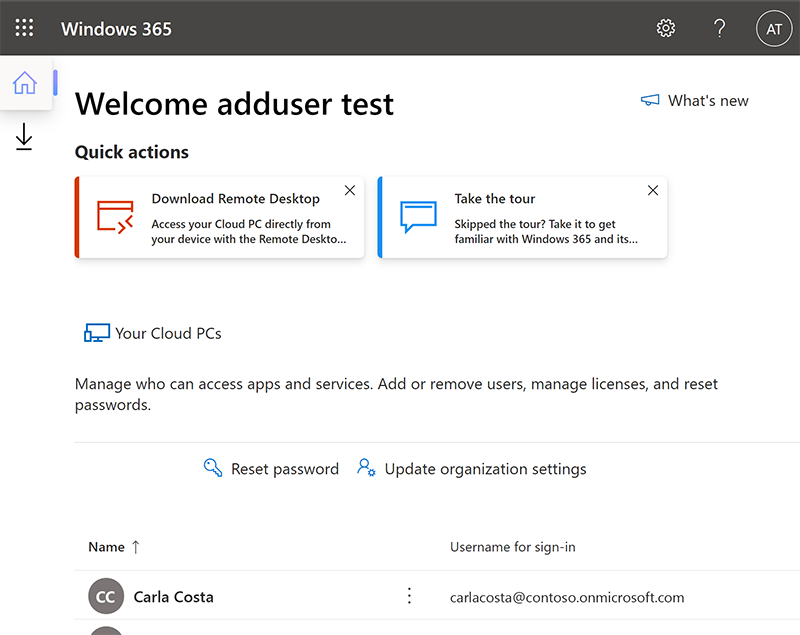
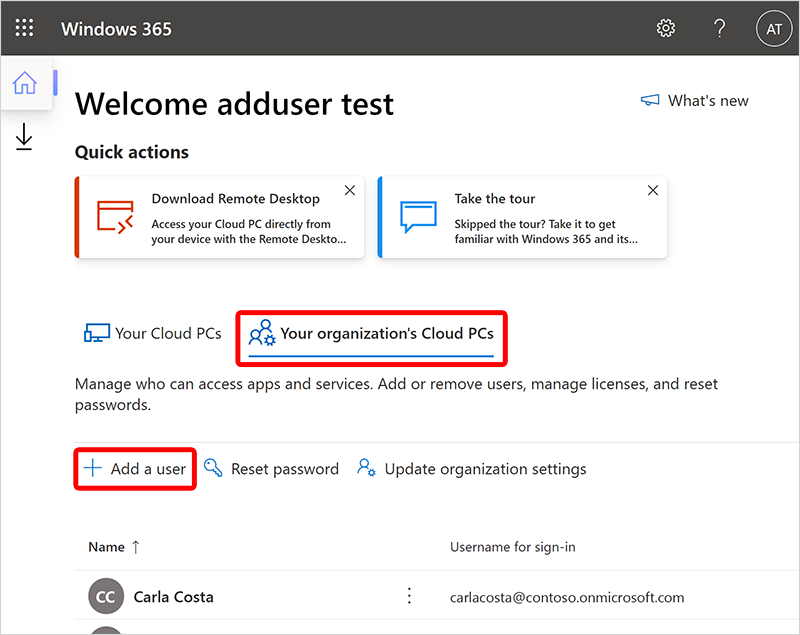
add more images

Changed region(s): [[0.2812, 0.4787, 0.6562, 0.5984], [0.0, 0.9874, 1.0, 1.0], [0.0938, 0.6882, 0.25, 0.778]]

diff --git a/Windows365/business/add-user-assign-licenses.md b/Windows365/business/add-user-assign-licenses.md
@@ -34,11 +34,12 @@ You can add a user and assign them licenses by following these steps:
 
 1. Sign in to [windows365.microsoft.com](https://windows365.microsoft.com) with an Azure Active Directory (Azure AD) Global Administrator account.
 2. Select **Your organization’s Cloud PCs** > **Add a user**.
-  ![Screenshot of Add user button](/media/add-user-assign-licences/add-user.png)
-3. Select **Edit products** to see all available licenses that can be assigned to the user.
-4. Select the licenses that you want to assign to the user.
-5. Under **User information**, enter a name and username, and select a domain name.
-6. If you want to specify a password, select **???** and then provide a password. If you don’t choose this option, a random password is automatically created for the user.
-7. Select **???** if you don’t want to require the user to change their password when they first sign into the new Cloud PC. If you don’t choose this option, the user will be prompted to change the password when the first sign into the Cloud PC.
-8. Select **???** to automatically send the sign in info to the user in an email.
+  ![Screenshot of Add user](/media/add-user-assign-licences/add-user.png)
+3. Choose **Select products** to see all available licenses that can be assigned to the user.
+    ![Screenshot of Select products](/media/add-user-assign-licences/select-products.png)
+4. Select the licenses that you want to assign to the user > **Update**.
+5. Under **User information**, enter a first and last name, username, and select a domain name.
+6. If you want to specify a password, de-select the **Automatically create a password** box. Then, enter a password.
+7. If you don’t want to require the user to change their password when they first sign into the new Cloud PC, de-select the **This user must change their password when they first sign in** box.
+8. If you don't want to automatically email the sign-in info to the user, de-select **Email the sign-in info** box.
 9. Select **Add user**. A new Cloud PC will be created and the user can use the sign in information to access it.
